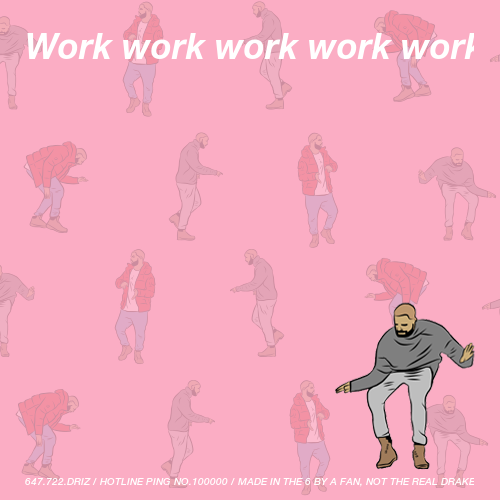
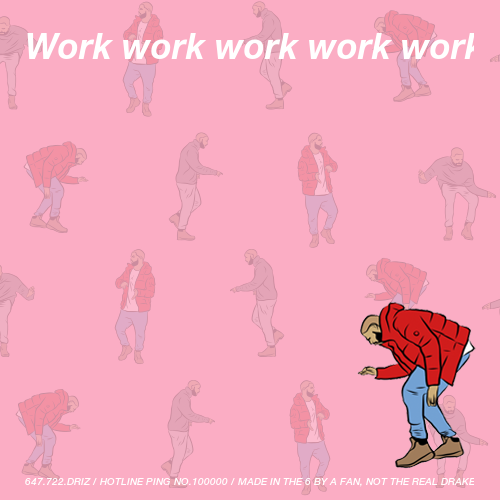
Fixed missing id rendering on draketip, played around with chatbot

Changed region(s): [[0.66, 0.6, 0.96, 0.96]]

diff --git a/647hotlineping_backup.rb b/647hotlineping_backup.rb
@@ -1,0 +1,190 @@
+#!/usr/bin/env ruby
+
+require 'rubygems'
+require 'chatterbot/dsl'
+
+#
+# this is the script for the twitter bot 647hotlineping
+# generated on 2016-07-23 17:23:34 -0400
+#
+
+#
+# Hello! This is some starter code for your bot. You will need to keep
+# this file and 647hotlineping.yml together to run your bot. The .yml file
+# will hold your authentication credentials and help track certain
+# information about what tweets the bot has seen so far.
+#
+# The code here is a basic starting point for a bot. It shows you the
+# different methods you can use to get tweets, send tweets, etc. It
+# also has a few settings/directives which you will want to read
+# about, and comment or uncomment as you see fit.
+#
+
+
+#
+# These lines here are just to make sure you edit this file before
+# trying to run your bot. You can safely remove them once you've
+# looked through this file.
+#
+puts "========================"
+puts "========================"
+puts "========================"
+puts "\n\n\n"
+
+puts "Hey there! You should open 647hotlineping.rb and take a look before running this script."
+
+puts "\n\n\n"
+exit
+
+
+
+#
+# Placing your security credentials right in a script like this is
+# handy, but potentially dangerous, especially if your code is
+# publicly available on github or somewhere else. However, if it is
+# convenient for you to have your authentication data here, you can
+# uncomment the lines below, and copy your configuration data from
+# 647hotlineping.yml into the commands.
+#
+# consumer_key 'consumer_key'
+# consumer_secret 'consumer_secret'
+#
+# secret 'secret'
+# token 'token'
+
+
+# Enabling **debug_mode** prevents the bot from actually sending
+# tweets. Keep this active while you are developing your bot. Once you
+# are ready to send out tweets, you can remove this line.
+debug_mode
+
+# Chatterbot will keep track of the most recent tweets your bot has
+# handled so you don't need to worry about that yourself. While
+# testing, you can use the **no_update** directive to prevent
+# chatterbot from updating those values. This directive can also be
+# handy if you are doing something advanced where you want to track
+# which tweet you saw last on your own.
+no_update
+
+# remove this to get less output when running your bot
+verbose
+
+# The blocklist is a list of users that your bot will never interact
+# with. Chatterbot will discard any tweets involving these users.
+# Simply add their twitter handle to this list.
+blocklist "abc", "def"
+
+# If you want to be even more restrictive, you can specify a
+# 'safelist' of accounts which your bot will *only* interact with. If
+# you uncomment this line, Chatterbot will discard any incoming tweets
+# from a user that is not on this list.
+# safelist "foo", "bar"
+
+# Here's a list of words to exclude from searches. Use this list to
+# add words which your bot should ignore for whatever reason.
+exclude "hi", "spammer", "junk"
+
+# Exclude a list of offensive, vulgar, 'bad' words. This list is
+# populated from Darius Kazemi's wordfilter module
+# @see https://github.com/dariusk/wordfilter
+exclude bad_words
+
+# This will restrict your bot to tweets that come from accounts that
+# are following your bot. A tweet from an account that isn't following
+# will be rejected
+only_interact_with_followers
+
+#
+# Specifying 'use_streaming' will cause Chatterbot to use Twitter's
+# Streaming API. Your bot will run constantly, listening for tweets.
+# Alternatively, you can run your bot as a cron/scheduled job. In that
+# case, do not use this line. Every time you run your bot, it will
+# execute once, and then exit.
+#
+use_streaming
+
+#
+# Here's the fun stuff!
+#
+
+# Searches: You can do all sorts of stuff with searches on Twitter.
+# However, please note, interacting with users who don't follow your
+# bot is very possibly:
+#  - rude
+#  - uncool
+#  - likely to get your bot suspended
+#
+# Still here? Hopefully it's because you're going to do something cool
+# with the data that doesn't bother other people. Hooray!
+#
+#search "chatterbot" do |tweet|
+#  # here's the content of a tweet
+#  puts tweets.text
+#end
+
+#
+# this block responds to mentions of your bot
+#
+#replies do |tweet|
+#  # Any time you put the #USER# token in a tweet, Chatterbot will
+#  # replace it with the handle of the user you are interacting with
+#  reply "Yes #USER#, you are very kind to say that!", tweet
+#end
+
+#
+# this block handles incoming Direct Messages. if you want to do
+# something with DMs, go for it!
+# 
+# direct_messages do |dm|
+#  puts "DM received: #{dm.text}"
+#  direct_message "HELLO, I GOT YOUR MESSAGE", dm.sender
+# end
+
+#
+# Use this block to get tweets that appear on your bot's home timeline
+# (ie, if you were visiting twitter.com) -- using this block might
+# require a little extra work but can be very handy
+#
+# home_timeline do |tweet|
+#  puts tweet.inspect
+# end
+
+#
+# Use this block if you want to be notified about new followers of
+# your bot. You might do this to follow the user back.
+#
+# NOTE: This block only works with the Streaming API. If you use it,
+# chatterbot will assume you want to use streaming and will
+# automatically activate it for you.
+#
+# followed do |user|
+#  puts user.inspect
+# end
+
+#
+# Use this block if you want to be notified when one of your tweets is
+# favorited. The object passed in will be a Twitter::Streaming::Event
+# @see http://www.rubydoc.info/gems/twitter/Twitter/Streaming/Event
+#
+# NOTE: This block only works with the Streaming API. If you use it,
+# chatterbot will assume you want to use streaming and will
+# automatically activate it for you.
+#
+# favorited do |event|
+#  puts event.inspect
+# end
+
+#
+# Use this block if you want to be notified of deleted tweets from
+# your bots home timeline. The object passed in will be a
+# Twitter::Streaming::DeletedTweet
+# @see http://www.rubydoc.info/gems/twitter/Twitter/Streaming/DeletedTweet
+#
+# NOTE: This block only works with the Streaming API. If you use it,
+# chatterbot will assume you want to use streaming and will
+# automatically activate it for you.
+#
+#deleted do |tweet|
+#
+#end
+  

diff --git a/app/actions.rb b/app/actions.rb
@@ -4,6 +4,9 @@ get '/' do
   erb :index
 end
 
+post '/receive_tweet' do
+end
+
 # Twilio posts to /receive_sms when it receives text at 647-277-DRIZ
 post '/receive_sms' do
 
@@ -11,7 +14,7 @@ post '/receive_sms' do
   @phone_number = params[:From]
 
   def drakify(user, question)
-    draketip = DrakeTip.new
+    draketip = DrakeTip.create
 
     # Note: the order below is necessary because image render needs user_id and lyric_id in place to store image name.
 
@@ -32,25 +35,28 @@ post '/receive_sms' do
   end
 
   # Checks if the user exists; if so, stores in @user
-  @user = User.where(phone_number: @phone_number)[0]
-  if @user
+  @user = User.where(phone_number: @phone_number)[0] || User.create(phone_number: @phone_number)
+
     if @user.credits > 0
       @draketip = drakify(@user, @user_question)
       @draketip.save!
       Question.create(question: @user_question, user_id: @user.id, drake_tip_id: @draketip.id)
-      redirect to("/send_sms?draketip=#{@draketip.id}")
+      @user.credits -= 1
+      @user.save
+      #redirect to("/send_sms?draketip=#{@draketip.id}")
     else
+      # If insufficient credits, store message to the database but do not send a DrakeTip.
       Question.create(question: @user_question, user_id: @user.id, drake_tip_id: nil)
-      "Have to build rejection method"
+      puts "User #{@user.id} does not have sufficient credits to receive a draketip."
     end
 
-  else
-    @new_user = User.create(phone_number: @phone_number)
-    @draketip = drakify(@new_user, @user_question)
-    @draketip.save!
-    Question.create(question: @user_question, user_id: @new_user.id, drake_tip_id: @draketip.id)
-    redirect to("/send_sms?draketip=#{@draketip.id}")
-  end
+  # else
+  #   @new_user = User.create(phone_number: @phone_number)
+  #   @draketip = drakify(@new_user, @user_question)
+  #   @draketip.save!
+  #   Question.create(question: @user_question, user_id: @new_user.id, drake_tip_id: @draketip.id)
+  #   redirect to("/send_sms?draketip=#{@draketip.id}")
+  # end
 
 end
 

diff --git a/app/models/drake_tip.rb b/app/models/drake_tip.rb
@@ -3,10 +3,10 @@ class DrakeTip < ActiveRecord::Base
   belongs_to :user
   belongs_to :lyric
 
-  validates :user_id, :lyric_id,
-    presence: { message: "Foreign keys required" }
+  # validates :user_id, :lyric_id,
+  #   presence: { message: "Foreign keys required" }
 
-  after_save :remove_credit_from_user
+  # after_save :remove_credit_from_user
 
   def determine_keywords(user_question)
     case
@@ -56,8 +56,8 @@ class DrakeTip < ActiveRecord::Base
       # self.stroke = "white"
       # self.stroke_width = 2
     }.first
-
-    counter = Magick::Image.read("caption:647.722.DRIZ / HOTLINE PING NO.#{100000+id.to_i} / MADE IN THE 6 BY A FAN, NOT THE REAL DRAKE") {
+    binding.pry
+    counter = Magick::Image.read("caption:647.722.DRIZ / HOTLINE PING NO.#{100000+self.id} / MADE IN THE 6 BY A FAN, NOT THE REAL DRAKE") {
       self.size = "450x30"
       self.font = "./app/assets/fonts/HelveticaNeue-MediumItalic.ttf" #See for custom fonts: http://stackoverflow.com/questions/28043993/rmagick-unable-to-read-font and http://www.simplesystems.org/RMagick/doc/draw.html
       #self.gravity = NorthWestGravity # Not working, parking for now
@@ -71,14 +71,13 @@ class DrakeTip < ActiveRecord::Base
     # 3. Merge and position caption over background - see http://rmagick.rubyforge.org/src_over.html
     merged_step1 = background.composite(advice, 25, 25, Magick::OverCompositeOp)
     merged_step2 = merged_step1.composite(counter, 25, 475, Magick::OverCompositeOp)
-    merged_step2.write("./public/draketips/draketip_#{self.user_id}_#{self.lyric_id}.png")
+    merged_step2.write("./public/draketips/draketip_#{100000+self.id}.png")
 
   end
 
-  def remove_credit_from_user
-    @user = User.find(self.user_id)
-    @user.credits -= 1
-    @user.save!
-  end
+  # def remove_credit_from_user
+  #   self.user.credits -= 1
+  #   self.user.save!
+  # end
 
 end

diff --git a/app/chatbot.rb b/app/chatbot.rb
@@ -1,0 +1,13 @@
+require 'rubygems'
+require 'chatterbot/dsl'
+require 'pry'
+
+verbose
+
+use_streaming
+
+replies do |tweet|
+ # Any time you put the #USER# token in a tweet, Chatterbot will
+ # replace it with the handle of the user you are interacting with
+ reply "#USER#, you are very kind to say that!", tweet
+end

diff --git a/app/models/user.rb b/app/models/user.rb
@@ -18,8 +18,10 @@ class User < ActiveRecord::Base
   end
 
   def set_defaults
-    self.credits = @@CREDITS
-    self.has_received_rejection_message = false
+    if self.new_record?
+      self.credits = @@CREDITS
+      self.has_received_rejection_message = false
+    end
   end
 
 end

diff --git a/config/environment.rb b/config/environment.rb
@@ -10,7 +10,7 @@ require 'sinatra/contrib/all' # Requires cookies, among other things
 # Load other key tools
 require 'twilio-ruby'
 require 'rmagick'
-require 'typhoeus'
+require 'chatterbot/dsl'
 
 include Magick # Necessary?
 
